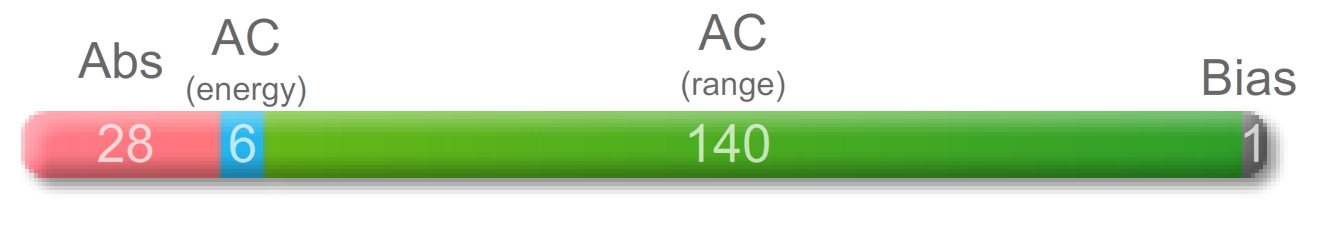
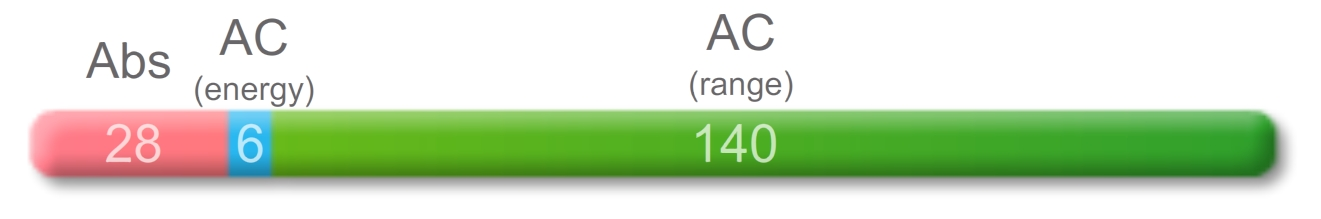
sources etc

diff --git a/feature_selection.tex b/feature_selection.tex
@@ -187,14 +187,14 @@ where $K$ is the number of covariance steps included in each sample.
 
 
 \begin{table}
-\begin{center}
 \rowcolors{2}{gray!25}{white}
+\begin{center}
   \begin{tabular}{|c|cccccc|}
 \hline
     \rowcolor{gray!150}
 		  & \color{white}\textbf{Abs} & \color{white}\textbf{AC Energy} & \color{white}\textbf{AC Range} & \color{white}\textbf{FFT} & \color{white}\textbf{Features} & \color{white}\textbf{Accuracy} \\
 	  Config 1 & X &   &   &   & 28  & 94.49 \\
-	  Config 2 & X & X & X & & 175 & 98.49 \\
+	  Config 2 & X & X & X & & 174 & 98.49 \\
 	  Config 3 & & & & X & 700 & 98.38 \\
 \hline
   \end{tabular}
@@ -207,16 +207,16 @@ where $K$ is the number of covariance steps included in each sample.
 \subsection{Tested feature combinations}
 Before performing any feature processing, the data is downsampled by a downsampling factor $D=24$ (see section \ref{downsampling}) such that only 14 out of the 331 range bins are studied. Thus, the resulting datasquare matrix, $\mathbf{R}\in \mathbb{C}^{N\times 28}$, where $N$ is the number of samples. There are 28 columns as the readings from the two sensors are concatenated. 
 
-In above section, four different feature extraction methods were described - the average signal shape, the autocovariance in range and energy, as well as the Fourier transform. The methods each generate a number of features. However, we are not limited to feed our model with features taken from a single one of the methods. In table \ref{tab:feat}, three possible configurations of features are chosen. Each of these combinations were fed through the same classifier to evaluate which was the most efficient. The first one, which simply involves the averaged signal shape, requires much fewer features than the other two combinations - simply 28 positive real numbers. But looking at its performance, these features are not enough to reach the accuracy attained in the other two cases. By instead selecting autocovariances as features the accuracy increases by 4 percentage points. Here we also include the absolute values as features, as this information is lost when subtracting the mean during the computation of the autocovariances. This configuration generates a feature vector with 175 elements, as seen in figure \ref{fig:feat_fig}. 28 features come from the absolute values, 6 features come from six steps in the energy autocovariance. The majority of the features, 140 to be exact, come from the autocovariance in range. For each of the 28 range bins, there is one real-valued feature representing variance, followed by two complex autocovariances for each range bin. This should give us $28+2\cdot 28=84$ features, but as the real- and imaginary parts of complex numbers are split up in two features, we obtain $28+2\cdot2\cdot 28=140$ features. Finally, a constant bias feature is added, and the total number of features add up to 28+6+140+1=175.
+In above section, four different feature extraction methods were described - the average signal shape, the autocovariance in range and energy, as well as the Fourier transform. The methods each generate a number of features. However, we are not limited to feed our model with features taken from a single one of the methods. In table \ref{tab:feat}, three possible configurations of features are chosen. Each of these combinations were fed through the same classifier to evaluate which was the most efficient. The first one, which simply involves the averaged signal shape, requires much fewer features than the other two combinations - simply 28 positive real numbers. But looking at its performance, these features are not enough to reach the accuracy attained in the other two cases. By instead selecting autocovariances as features the accuracy increases by 4 percentage points. Here we also include the absolute values as features, as this information is lost when subtracting the mean during the computation of the autocovariances. This configuration generates a feature vector with 174 elements, as seen in figure \ref{fig:feat_fig}. 28 features come from the absolute values, 6 features come from six steps in the energy autocovariance. The majority of the features, 140 to be exact, come from the autocovariance in range. For each of the 28 range bins, there is one real-valued feature representing variance, followed by two complex autocovariances for each range bin. This should give us $28+2\cdot 28=84$ features, but as the real- and imaginary parts of complex numbers are split up in two features, we obtain $28+2\cdot2\cdot 28=140$ features. The total number of features therefore becomes $28+6+140=174$.
 
 \begin{figure}[h]
 	\centering
 	\includegraphics[scale=0.8]{figs_temp/features.jpg}
-	\caption{Origin of the 175 features in features in feature configuration 2.}
+	\caption{Origin of the 174 features in features in feature configuration 2.}
 	\label{fig:feat_fig}
 \end{figure}
 
-We can also choose to look at the Fourier transform, as in configuration 3. With these features we reach a slightly lower accuracy than configuration 2, but more importantly we would need 700 features compared to 175. The 700 features is a result of computing a discrete Fourier transform along the time series of all 28 ranges, over 25 samples\footnote{Ideally, the \gls{dft} should be computed over a number of samples which is a power of 2. However, to get a fair comparison of the feature extraction methods, we utilize the same number of samples for all methods.}. The length of each transform is 25, and by concatenating them all into one feature vector, it will have $28\cdot 25=700$ elements.
+We can also choose to look at the Fourier transform, as in configuration 3. With these features we reach a slightly lower accuracy than configuration 2, but more importantly we would need 700 features compared to 174. The 700 features is a result of computing a discrete Fourier transform along the time series of all 28 ranges, over 25 samples\footnote{Ideally, the \gls{dft} should be computed over a number of samples which is a power of 2. However, to get a fair comparison of the feature extraction methods, we utilize the same number of samples for all methods.}. The length of each transform is 25, and by concatenating them all into one feature vector, it will have $28\cdot 25=700$ elements.
 
 This makes configuration 2 more favorable as fewer features demands less computational costs and memory usage. Hence it is deemed the most efficient configuration.
 
@@ -227,12 +227,12 @@ Through the point and feature selection methods described in previous sections w
 
 \gls{pca} is  a classical technique in statistical data analysis which takes a large set variables from a multivariate dataset and finds a smaller set of variables with less redundancy. Critically, \gls{pca} finds a rotated orthogonal coordinate system such that the elements of the set become uncorrelated. Projecting elements on the principal axes corresponding to the directions of maximal variance a good approximation of the original data in lower dimension is obtained \citep{hyvasrinen_karhunen_oja_2004}.
 
-After having chosen to proceed with feature configuration 2 in table \ref{tab:feat}, the 175 dimensions can be reduced to 2 dimensions using \gls{pca}. This helps to visualize the separability of the different materials as seen in figure \ref{fig:pca}.
+After having chosen to proceed with feature configuration 2 in table \ref{tab:feat}, the 174 dimensions can be reduced to 2 dimensions using \gls{pca}. This helps to visualize the separability of the different materials as seen in figure \ref{fig:pca}.
 
 \begin{figure}[h]
 	\centering
 	\includegraphics[scale=0.50]{figs_temp/pca_analysis.png}
-	\caption{By performing a principal component analysis on the feature vectors we may reduce them from a 175-dimensional space into 2 dimensions, maintaining maximal variance. This allows us to visualize, and get an idea of how separable the materials are.}
+	\caption{By performing a principal component analysis on the feature vectors we may reduce them from a 174-dimensional space into 2 dimensions, maintaining maximal variance. This allows us to visualize, and get an idea of how separable the materials are.}
 	\label{fig:pca}
 \end{figure}
 

diff --git a/classification_schemes.tex b/classification_schemes.tex
@@ -72,9 +72,9 @@ Linear Discriminant Analysis, or \gls{lda} for short, is an algorithm commonly u
 Reducing the dimensionality of data is a good way of both lowering computational costs and avoiding overfitting as well as other phenomena that stem from a high-dimensional data. For further reading about \gls{lda}, we refer to \citep{raschka_2014}.
 
 \subsection*{Support Vector Machine}
-\gls{svm}s are one of the most popular models when it comes to supervised learning. The most simple \gls{svm} uses what is called a linear kernel, and generates a linear hyperplane that separates two sets of labeled data. Finding such a hyperplane is often an ambiguous task, so to find what the \gls{svm} regards as the best hyperplane, it seeks parameters that maximize the distance between the hyperplane and the sample points closest to it, known as support vectors \citep{boswell2002introduction}.
+\gls{svm}s are one of the most popular models when it comes to supervised learning. The most simple \gls{svm} uses what is called a linear kernel, and generates a linear hyperplane that separates two sets of labeled data. Finding such a hyperplane is often an ambiguous task, so to find what the \gls{svm} regards as the best hyperplane, it seeks parameters that maximize the distance between the hyperplane and the sample points closest to it, known as support vectors \citep{boswell_2002}.
 
-Even if support vector machines are linear models, they are not limited to work only on linearly separable data. There are ways to use them in a non-linear fashion by utilizing different kinds of kernels \citep{xia_2016}. In principle, the data is first transformed into a higher dimensional space, including non-linear terms. In this new space, the \gls{svm} is used just as before. This makes the \gls{svm} a powerful tool even in non-linear problems.
+Even if support vector machines are linear models, they are not limited to work only on linearly separable data. There are ways to use them in a non-linear fashion by utilizing different kinds of kernels. In principle, the data is first transformed into a higher dimensional space, including non-linear terms. In this new space, the \gls{svm} is used just as before. This makes the \gls{svm} a powerful tool even in non-linear problems \citep{boswell_2002}.
 
 \section{Non-linear Models}
 In some cases, the data is not linearly separable. That is, two classes in the dataset cannot be separated by any hyperplane. Hence, if a linear model were to be trained on data that is not linearly separable, one would expect to notice a poor result in comparison to the result of a non-linear model. 
@@ -84,7 +84,7 @@ The non-linear models considered in this work are random forest, logistic regres
 \subsection*{Random Forest}
 Random forest is a strong tool that can be used for both regression- and classification problems. The name stems from that the method is based on several \textit{decision trees}, which are initiated randomly. A decision tree is a classifier per se, and is structured as a sequence of simple questions. These questions typically ask if a sample's feature is equal to, or greater/smaller than some set value. The answers to these questions form a path in the decision tree, leading to an end node which corresponds to the prediction.
 
-Random forest segments the training data into $n$ parts, and induces a decision tree from each group of data. Thus there are $n$ predictors that work independently, and by selecting the most common prediction, random forest yields a robust result with little risks of overfitting due to the combined results of many trees. On top of that it offers a very high accuracy in a wide variety of applications, while still maintaining an intuitive model structure that allows us to, for instance, estimate which features are important. \citep{breiman_cutler_2018}
+Random forest segments the training data into $n$ parts, and induces a decision tree from each group of data. Thus there are $n$ predictors that work independently, and by selecting the most common prediction, random forest yields a robust result with little risks of overfitting due to the combined results of many trees. On top of that it offers a very high accuracy in a wide variety of applications, while still maintaining an intuitive model structure that allows us to, for instance, estimate which features are important \citep{breiman_2002}.
 
 
 \subsection*{Logistic Regression}
@@ -105,7 +105,7 @@ Another major difference between linear and logistic regression is the choice of
 
 \subsection*{Artificial neural networks}
 Artificial neural networks (\gls{ann}s) constitute a class of nonlinear models designed to mimic biological neural systems \citep{rojas_1996}. ANNs consist of multiple layers of neurons, or nodes. Initially, there is one input layer, followed by one or more \textit{hidden layers} and one output layer. \citep{logan_2017} The input layer represents the feature vector, and each node holds one feature. Figure \ref{fig:ann} illustrates a simple network which takes a feature vector $\mathbf{x}^{(0)}=\begin{pmatrix}x_1^{(0)} & x_2^{(0)}\end{pmatrix}$ as input. By multiplying the feature vector with a set of weights $\mathbf{w}^{(1)}$ the features are \textit{propagated} through the network and the new node values are generated. In the network in figure \ref{fig:ann}, the output from the input layer, forwarded to the hidden layer becomes
-\rowcolors{2}{white}{white}
+%\rowcolors{2}{white}{white}
 \begin{equation}
 	\mathbf{x}^{(1)}=\begin{pmatrix}x_1^{(1)} \\ x_2^{(1)} \\ x_3^{(1)} \end{pmatrix} = 
 	\begin{pmatrix} w_{11}^{(1)} & w_{21}^{(1)} \\ w_{12}^{(1)} & w_{22}^{(1)} \\ w_{13}^{(1)} & w_{23}^{(1)}\end{pmatrix}\cdot \begin{pmatrix}x_1^{(0)} \\ x_2^{(0)}\end{pmatrix}.
@@ -177,8 +177,8 @@ In table \ref{tab:loo}, the leave-one-out results of all models above are listed
 
 %\rowcolors{2}{gray!25}{white}
 \begin{table}
-	\begin{center}
 	\rowcolors{2}{gray!25}{white}
+	\begin{center}
 	\begin{adjustbox}{totalheight=\textheight-2\baselineskip}
 		\begin{tabular}{|l|l|l|l|l|l|l|}
 		\hline

diff --git a/discussion.tex b/discussion.tex
@@ -73,7 +73,7 @@ Some may argue that no feature extraction should be performed when working with 
 On a different note, the final choice of classifier is also debatable. The \gls{dnn} classifier was chosen mainly because of its high leave-one-out scores in table \ref{tab:loo}. But without blindly chasing an accuracy as high as possible, the results of the linear models are good enough to suggest that the data could be at least \textit{approximately} linearly separable. If it were, a non-linear model would not be necessary, hence further investigation in linear models is motivated.
 
 \section{Errors and Uncertainties}
-As with all works, there are things that can go wrong due to either technical reasons or human reliability. The data collecting process is a prime example of where human reliability is inevitable. Here, fundamental decisions are made, which the entire work is based upon. For instance, in general, one strives for a dataset where the numbers of samples from each class are as balanced as possible. But the question of what a balanced dataset \textit{is}, sometimes has multiple answers. In this work, there are four different types of materials belonging to class 0 (not grass) and one belonging to class 1. A natural question to ask oneself is whether there should be equally many samples for each \textit{material}, or equally many for each \textit{class}. We have chosen to balance the dataset so that there are approximately as many samples in each class. If all grass surfaces looked the same, this would perhaps make the model biased in its predictions, but due to the great variety among grass surfaces the bias is eliminated.
+As with all works, there are things that can go wrong due to either technical reasons or human reliability. The data collecting process is a prime example of where human reliability is inevitable. Here, fundamental decisions are made, which the entire work is based upon. For instance, in general, one strives for a dataset where the numbers of samples from each class are as balanced as possible. But the question of what a balanced dataset \textit{is}, sometimes holds multiple answers. In this work, there are four different types of materials belonging to class 0 (not grass) and one belonging to class 1. A natural question to ask oneself is whether there should be equally many samples for each \textit{material}, or equally many for each \textit{class}. We have chosen to balance the dataset so that there are approximately as many samples in each class. If all grass surfaces looked the same, this would perhaps make the model biased in its predictions, but due to the great variety among grass surfaces the bias is eliminated.
 
 Another risk with collecting data is to obtain too little of it. However, looking at how high accuracies the models achieve as well as how little improvement the data augmentation yields, it is not likely that we provide too little data to our models.
 
